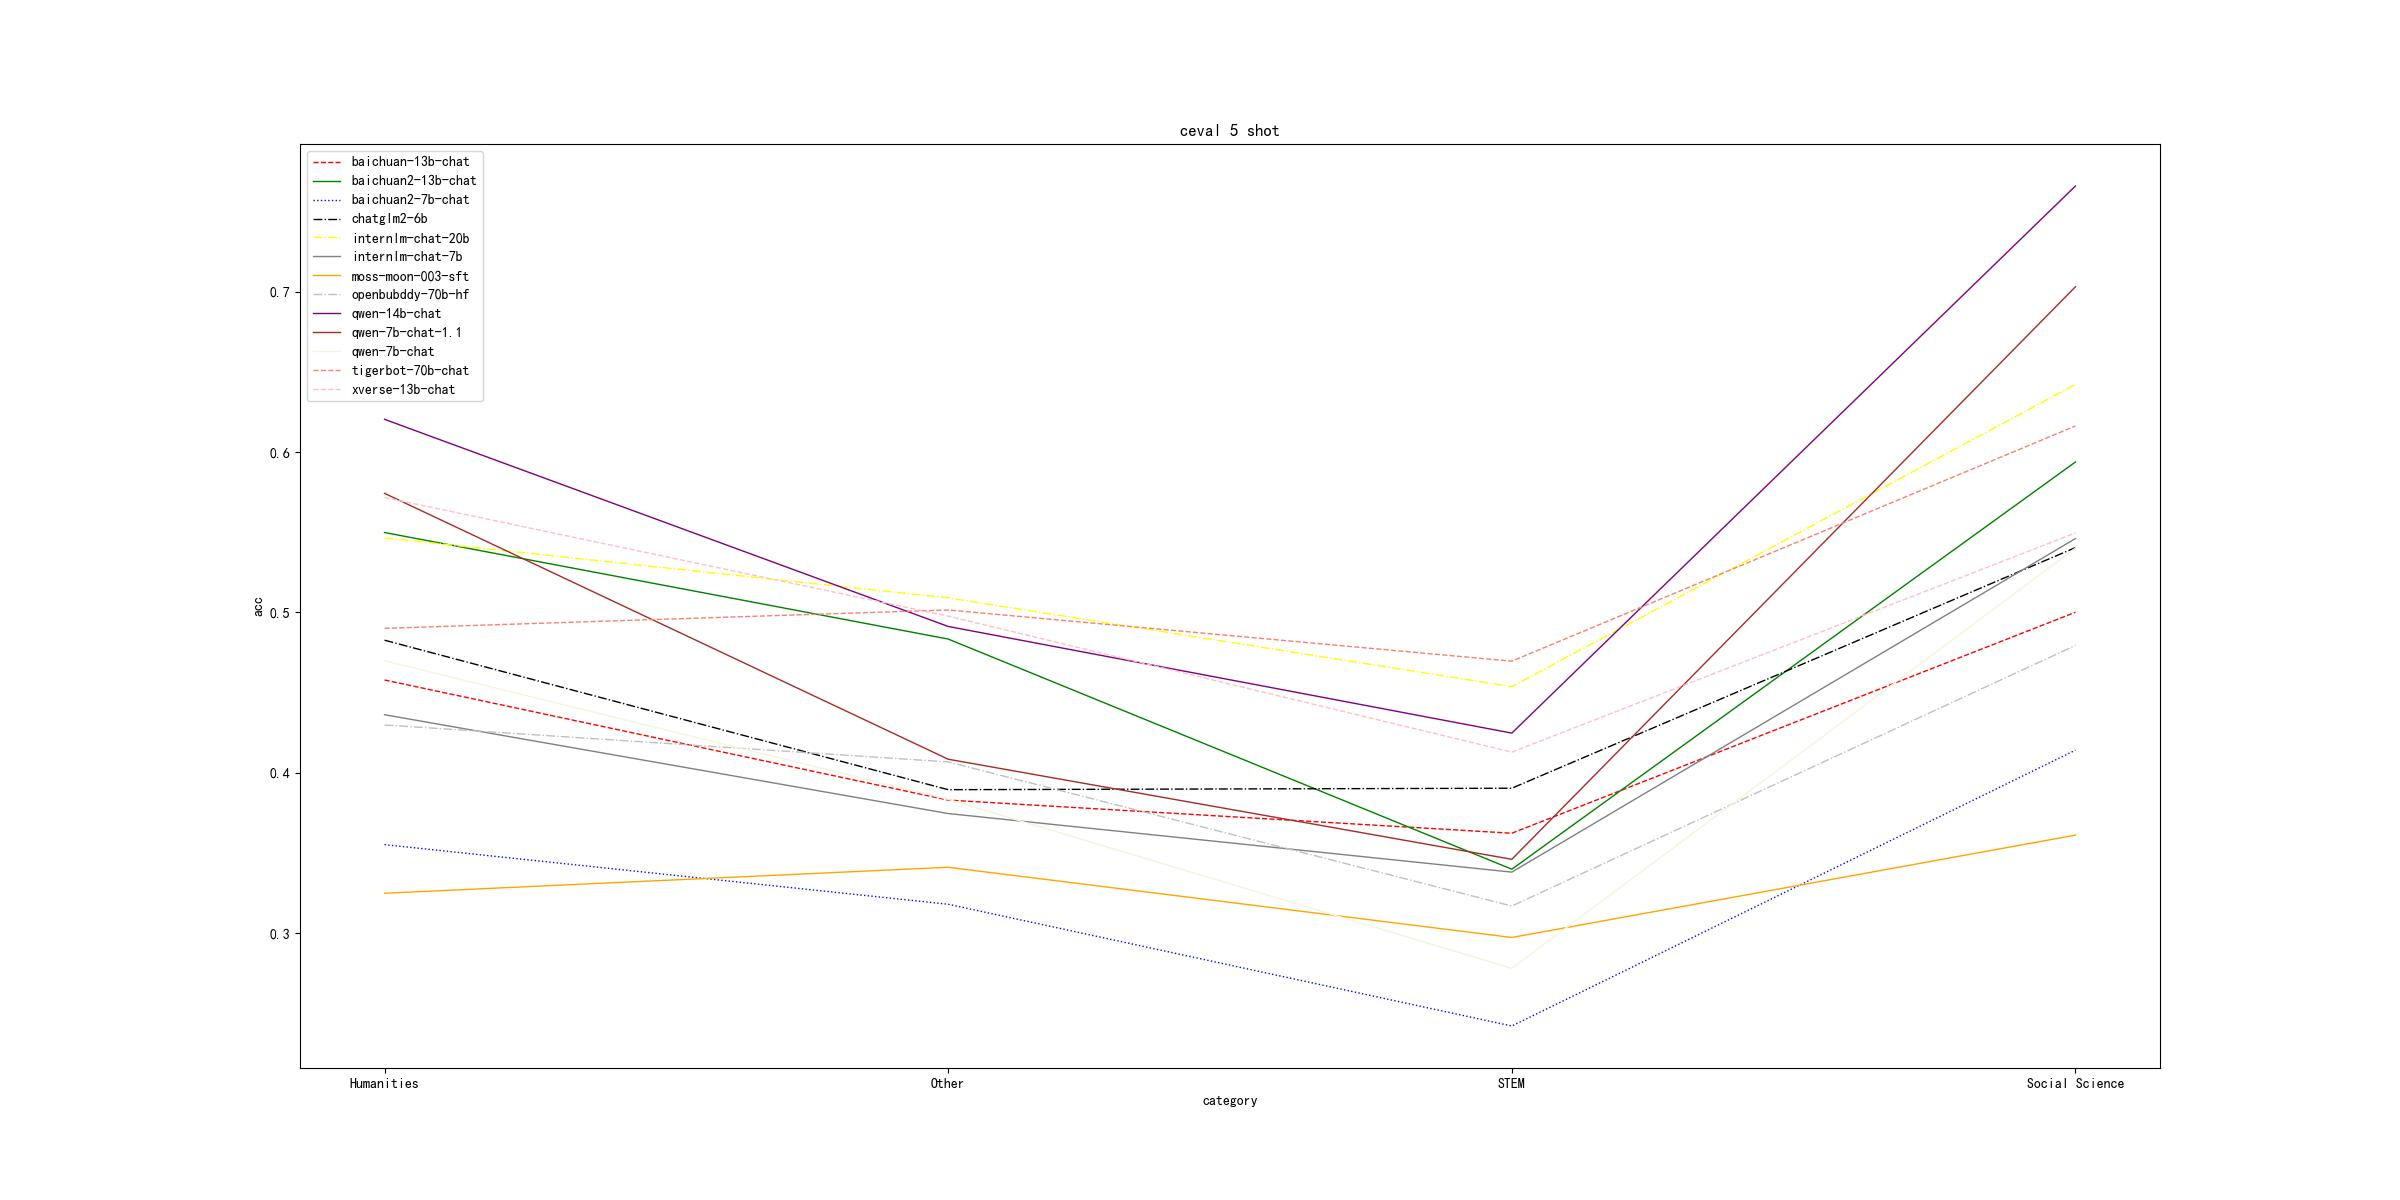
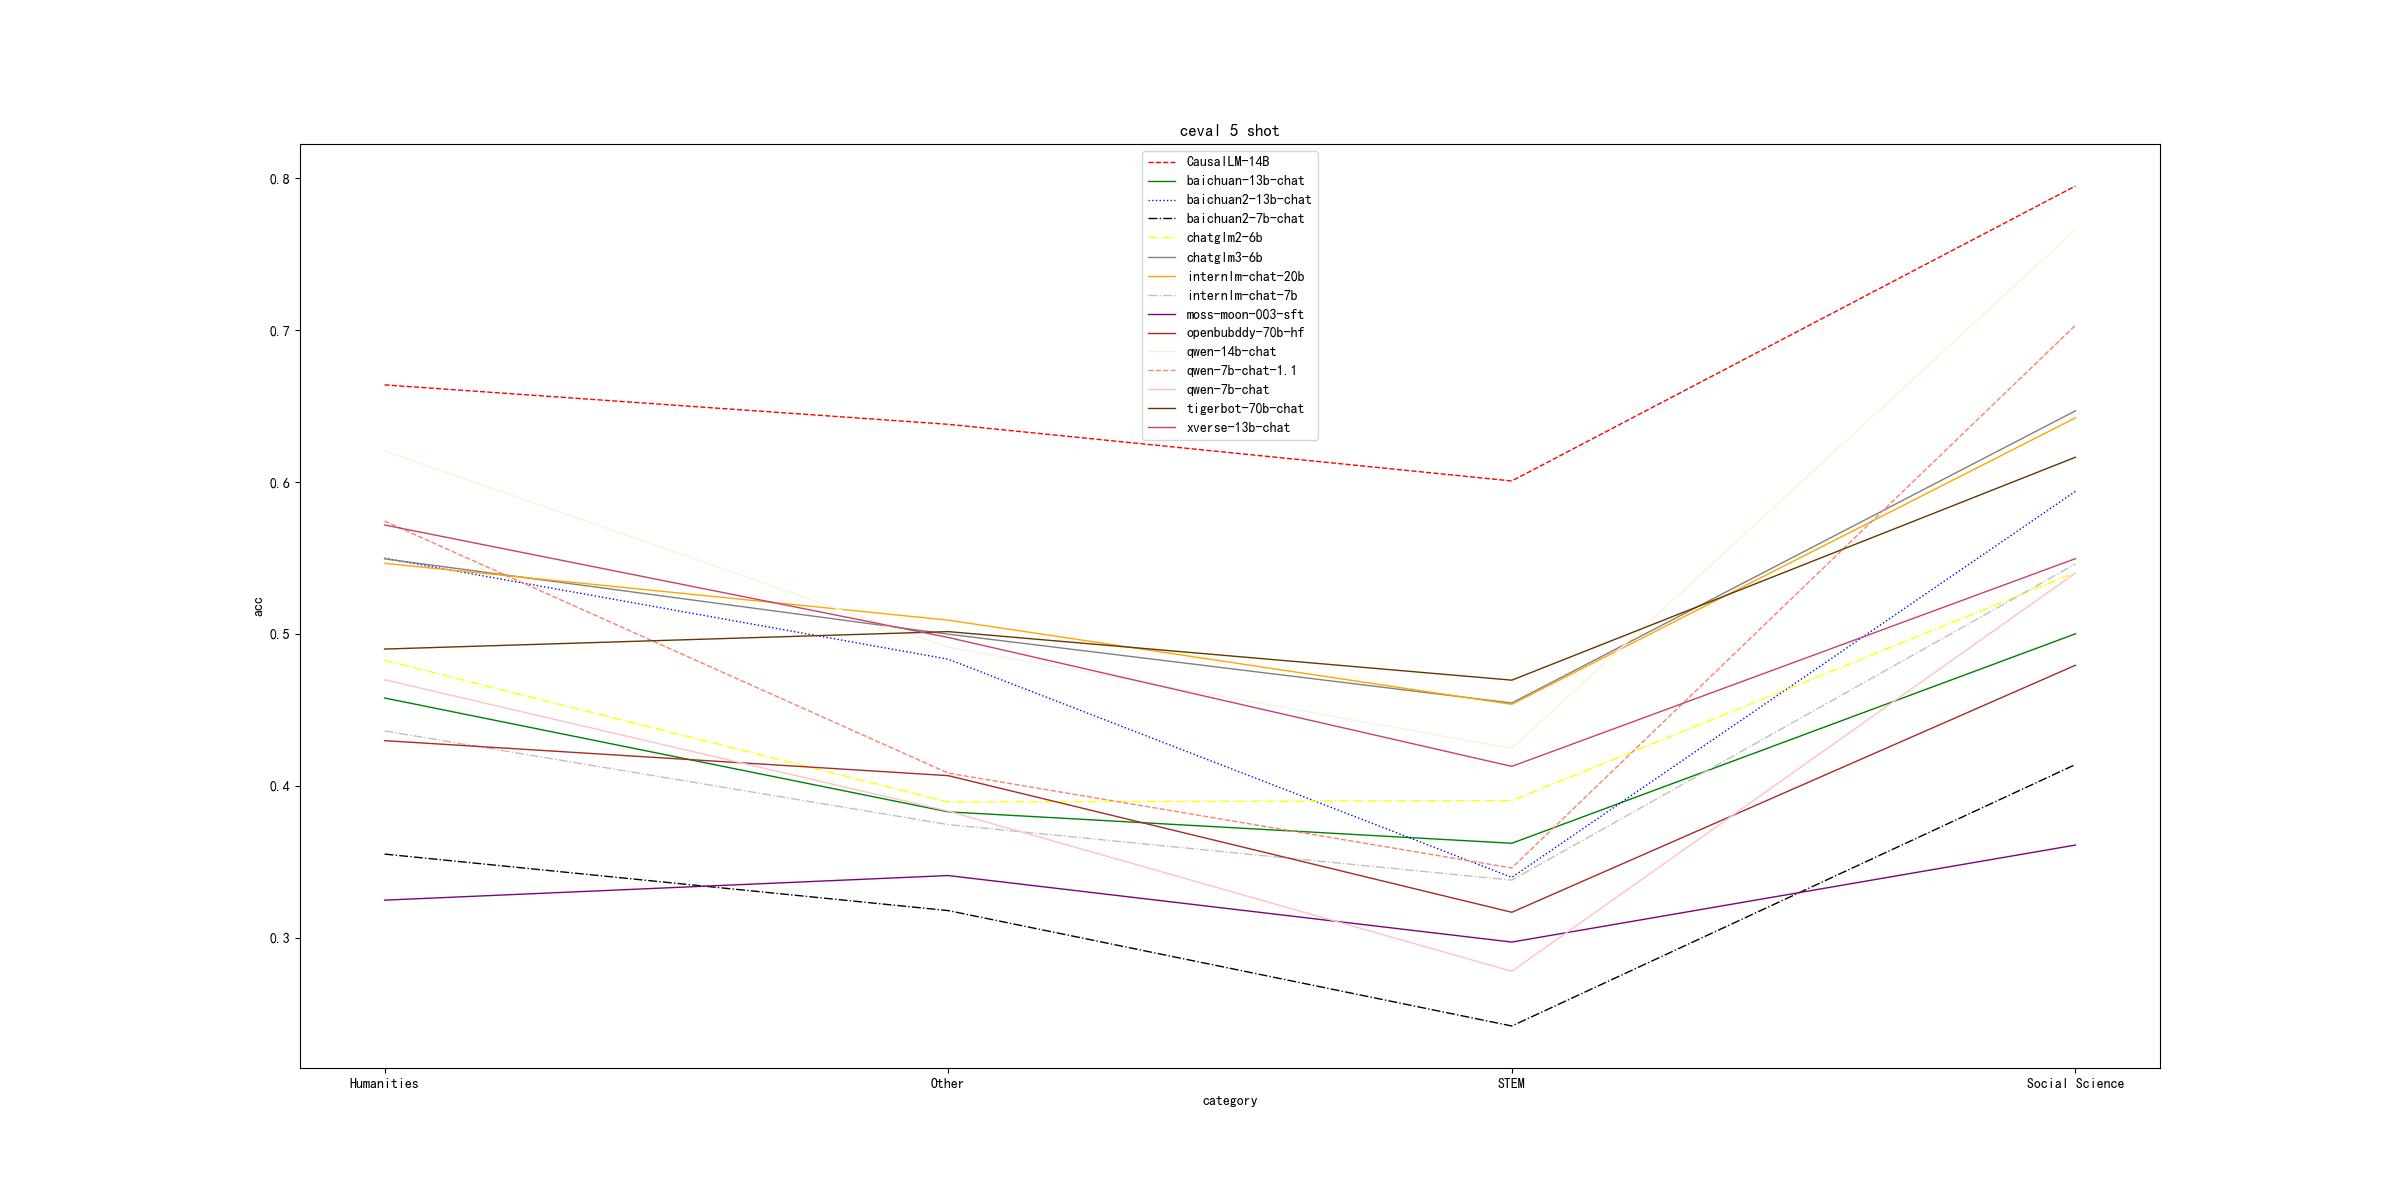
update

diff --git a/auto_eval/model_result/draw_ceval.py b/auto_eval/model_result/draw_ceval.py
@@ -35,10 +35,10 @@ plt.rcParams["font.sans-serif"] = ['SimHei']
 plt.rcParams["axes.unicode_minus"] = False
 
 colors = [
-    'r','g','b','black','yellow','grey', 'orange','silver','purple','brown','beige','salmon','pink','pulm'
+    'r','g','b','black','yellow','grey', 'orange','silver','purple','brown','beige','salmon','pink',"#653700","#cb416b","#cea2fd","#01153e"
 ]
 styles = [
-    'dashed','solid','dotted','dashdot','dashdot','solid','solid','dashdot','solid','solid','solid','dashed','dashed',
+    'dashed','solid','dotted','dashdot','dashdot','solid','solid','dashdot','solid','solid','solid','dashed','solid','solid','solid'
 ]
 idx = -1
 for k,v in data_map.items():
